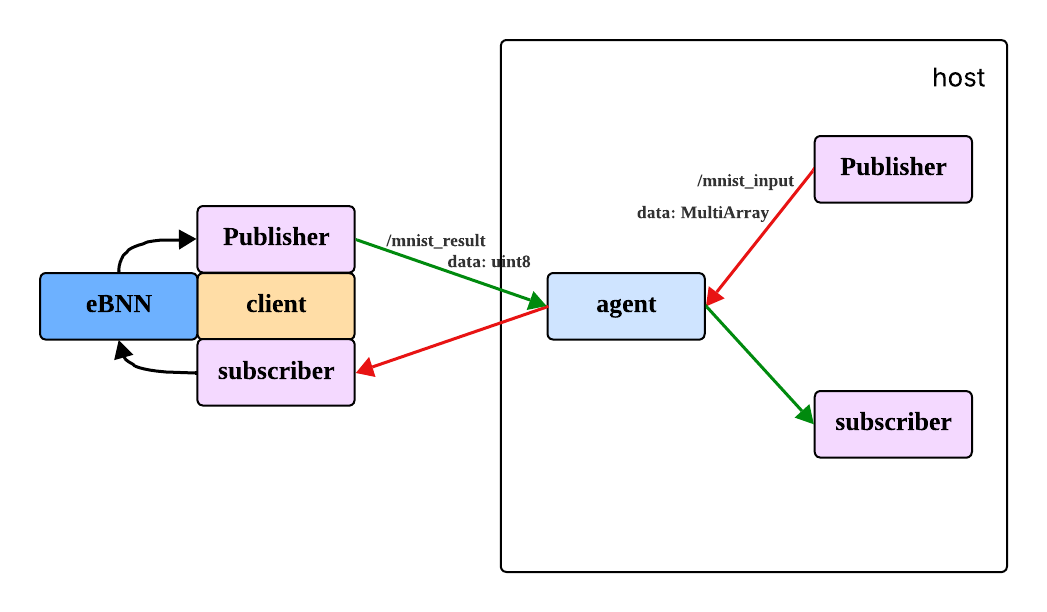
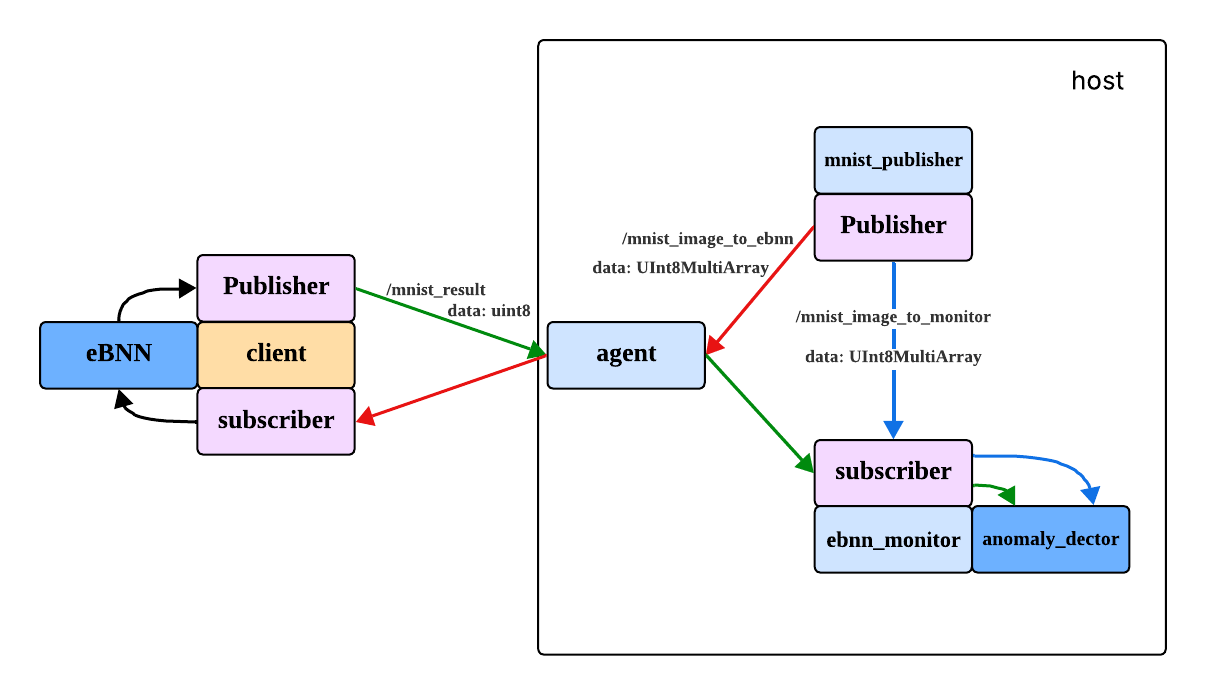
docs: update README

Changed region(s): [[0.0306, 0.031, 0.978, 0.9624]]

diff --git a/README.md b/README.md
@@ -1,47 +1,88 @@
 # eBNN on NodeMCU with micro-ROS
-This repository contains a simple project implementing embedded neural network inference on ESP32 platforms using micro-ROS integration.
+This system integrates ROS 2 and containerized deployment with embedded eBNN inference and PCA-based anomaly detection to monitor abnormal inputs and behaviors in micro-ROS-enabled devices.
 ## System Architecture
-![system_topology](images/system_topology.png)
+![system_topology](./images/system_topology.png)
 ## Project Structure
-```text
+```
 eBNN-microROS
-├── README.md
 ├── include
-│   ├── ebnn.h
-│   └── simple_mnist.h
+│   ├── ebnn.h
+│   └── simple_mnist.h
 ├── platformio.ini
 └── src
     ├── client
-    │   └── main.cpp
+    │   └── main.cpp
     └── host
         ├── agent
-        │   └── run_agent.sh
-        ├── publisher
-        │   ├── Dockerfile
-        │   ├── mnist_publisher
-        │   │   ├── mnist_publisher
-        │   │   │   ├── __init__.py
-        │   │   │   └── mnist_publisher.py
-        │   │   ├── package.xml
-        │   │   ├── resource
-        │   │   │   └── mnist_publisher
-        │   │   ├── setup.cfg
-        │   │   └── setup.py
-        │   └── run_publisher.sh
-        └── subscriber
+        │   └── run_agent.sh
+        ├── monitor
+        │   ├── Dockerfile
+        │   ├── ebnn_monitor
+        │   │   ├── ebnn_monitor
+        │   │   │   ├── __init__.py
+        │   │   │   ├── anomaly_detector.py
+        │   │   │   └── ebnn_monitor.py
+        │   │   ├── package.xml
+        │   │   ├── resource
+        │   │   │   └── ebnn_monitor
+        │   │   ├── setup.cfg
+        │   │   └── setup.py
+        │   ├── requirements.txt
+        │   ├── run_monitor.sh
+        │   └── tools
+        │       └── train_pca.py
+        └── publisher
             ├── Dockerfile
-            ├── mnist_subscriber
-            │   ├── mnist_subscriber
-            │   │   ├── __init__.py
-            │   │   └── mnist_subscriber.py
-            │   ├── package.xml
-            │   ├── resource
-            │   │   └── mnist_subscriber
-            │   ├── setup.cfg
-            │   └── setup.py
-            └── run_subscriber.sh
+            ├── mnist_publisher
+            │   ├── mnist_publisher
+            │   │   ├── __init__.py
+            │   │   └── mnist_publisher.py
+            │   ├── package.xml
+            │   ├── resource
+            │   │   └── mnist_publisher
+            │   ├── setup.cfg
+            │   └── setup.py
+            └── run_publisher.sh
 
 ```
+## Technology Stack
+### Operating System & Environment
+- **Ubuntu 22.04**
+- **Docker**
+    - Containerized deployment for ROS 2 nodes, agent, model training, and monitoring services
+    - Ensures reproducibility and environment consistency across systems
+### Robotics Middleware
+- **ROS 2 Humble**
+    - Node-based distributed architecture
+    - Asynchronous, topic-based communication
+    - Configurable QoS policies (Reliability, History, Depth
+- **micro-ROS**
+    - Deploy an embedded Binary Neural Network (eBNN) on microcontrollers
+    - Publish inference results to the ROS 2 network
+### Programming Language
+- **Python 3.10+**
+    - ROS 2 node implementation using `rclpy`
+    - Data preprocessing, inference monitoring, and anomaly detection
+- **C/C++**
+    - Embedded-side implementation for micro-ROS and eBNN deployment
+### Deep Learning Models
+- **eBNN (Embedded Binary Neural Network)**
+    - Deployed on embedded/microcontroller devices
+    - Ultra-low memory footprint and energy-efficient inference
+### Anomaly Detection
+- **PCA (Principal Component Analysis)**
+    - Learns a low-dimensional subspace representing normal MNIST data
+    - Uses reconstruction error as the anomaly score
+- **Scikit-learn**
+    - PCA model training and inference
+- **Joblib**
+    - Model serialization and cross-container loading
+### Datasets
+- **MNIST Dataset**
+    - Normal samples from official TensorFlow / PyTorch MNIST datasets
+    - Anomalous samples generated via:
+        - Random noise matrices
+        - Corrupted or partially occluded images
 ## Prerequisites
 ### Hardware Requirements
 |Item|Quantity|Notes|
@@ -69,19 +110,19 @@ eBNN-microROS
     # in PlatformIO CLI
     pio run -t upload --upload-port <your ESP32 port>
     ```
-5. Start agent
+5. Start agent.
     ```bash
     # Terminal 1: Flash firmware and start agent
     cd eBNN-microROS/src/host/agent
     bash run_agent.sh
     ```
-6. Start subscriber
+6. Start ebnn monitor.
     ```bash
     # Terminal 2: Run subscriber
-    cd eBNN-microROS/src/host/subscriber
-    bash run_subscriber.sh
+    cd eBNN-microROS/src/host/monitor
+    bash run_monitor.sh
     ```
-7. Start publisher
+7. Start publisher.
     ```bash
     # Terminal 3: Run publisher
     cd eBNN-microROS/src/host/publisher
